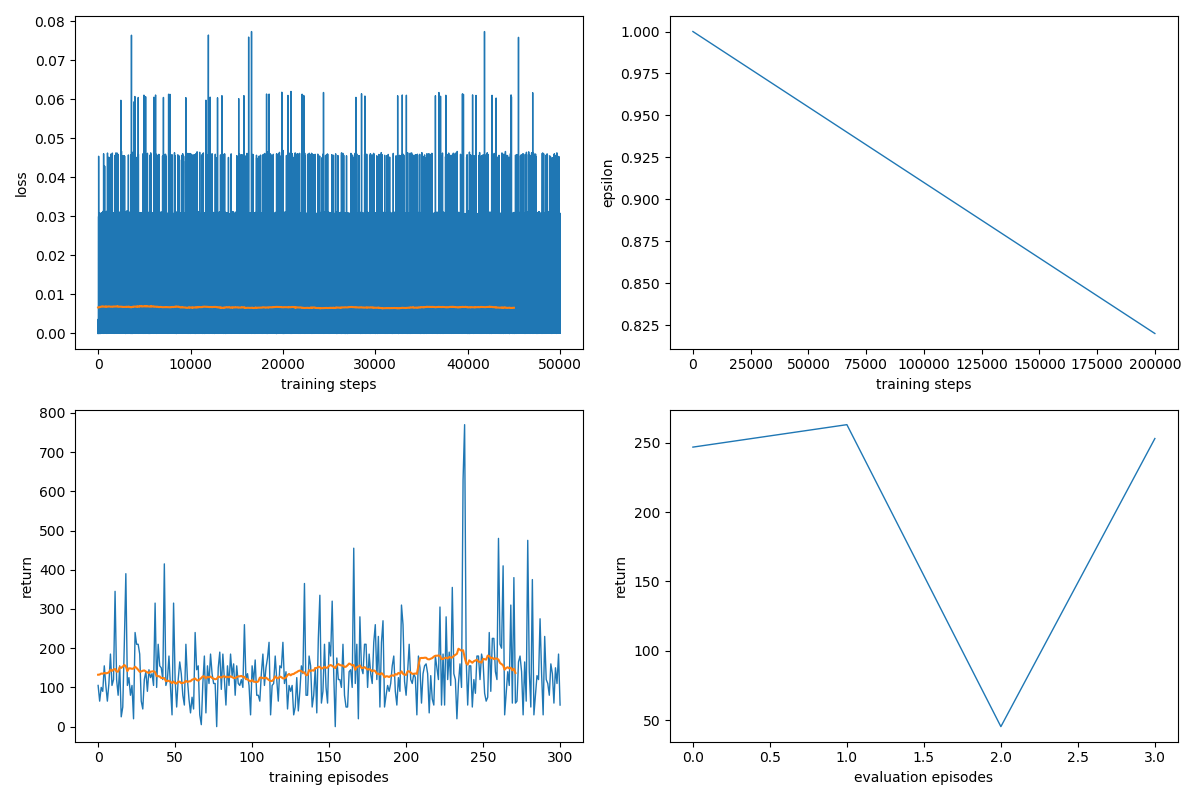
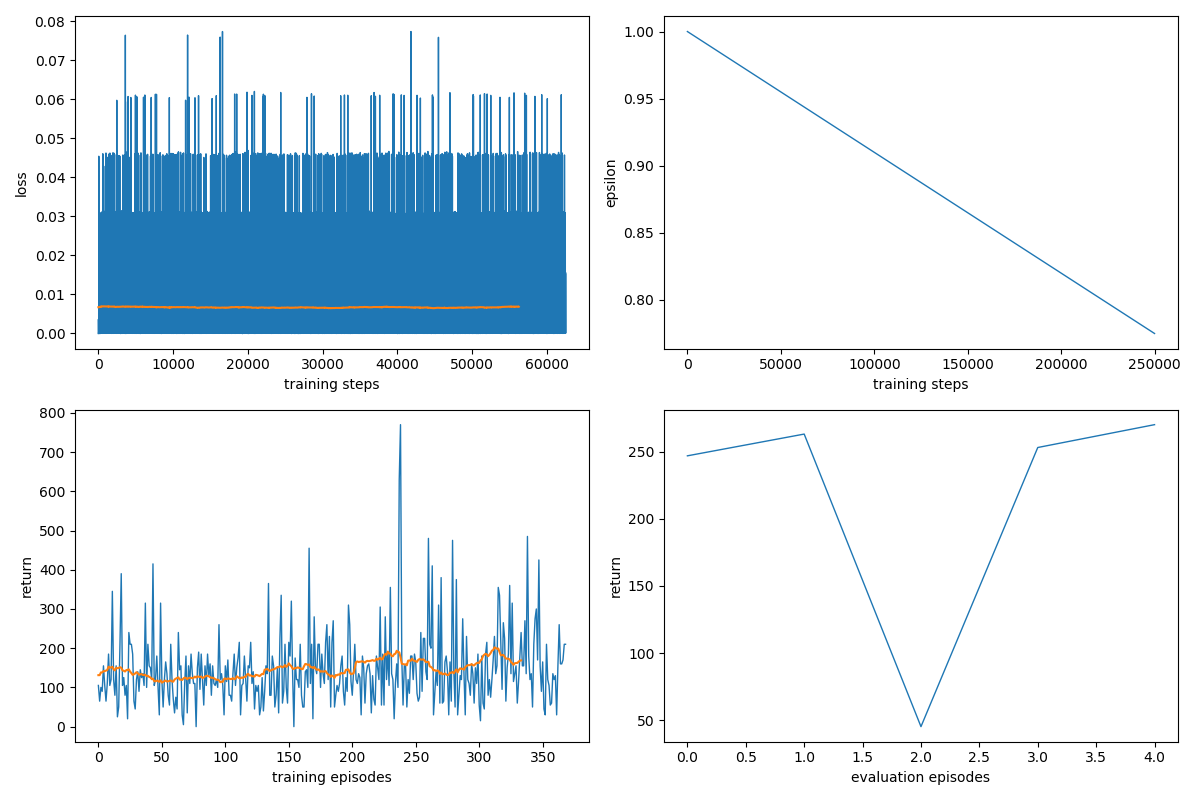
- new (intermediate) results - test reduced hidden_size (256 -> 128)

diff --git a/models/models.py b/models/models.py
@@ -21,7 +21,7 @@ class CNN(nn.Module):
         self.device = device
         self.conv_1 = nn.Conv2d(in_channels=1, out_channels=32, kernel_size=8, stride=4)
         self.conv_2 = nn.Conv2d(in_channels=32, out_channels=64, kernel_size=4, stride=2)
-        self.conv_3 = nn.Conv2d(in_channels=64, out_channels=256, kernel_size=3, stride=1)
+        self.conv_3 = nn.Conv2d(in_channels=64, out_channels=128, kernel_size=3, stride=1)
 
     def forward(self, state):
         """
@@ -45,8 +45,8 @@ class Attention(nn.Module):
 
         """
         super(Attention, self).__init__()
-        self.fc_1 = nn.Linear(in_features=256, out_features=256)
-        self.fc_2 = nn.Linear(in_features=256, out_features=256)
+        self.fc_1 = nn.Linear(in_features=128, out_features=128)
+        self.fc_2 = nn.Linear(in_features=128, out_features=128)
 
     def forward(self, input_vectors, last_hidden_state):
         """
@@ -77,7 +77,7 @@ class Encoder(nn.Module):
         :param num_layers: number of LSTM layers
         """
         super(Encoder, self).__init__()
-        self.lstm = nn.LSTM(input_size=256, hidden_size=256, num_layers=num_layers)
+        self.lstm = nn.LSTM(input_size=128, hidden_size=128, num_layers=num_layers)
 
     def forward(self, input_sequence, hidden_state, hidden_cell):
         """
@@ -101,7 +101,7 @@ class Decoder(nn.Module):
         :param num_layers: number of LSTM layers
         """
         super(Decoder, self).__init__()
-        self.lstm = nn.LSTM(input_size=256, hidden_size=256, num_layers=num_layers)
+        self.lstm = nn.LSTM(input_size=128, hidden_size=128, num_layers=num_layers)
 
     def forward(self, input_sequence, hidden_state, hidden_cell):
         """
@@ -125,7 +125,7 @@ class QNet(nn.Module):
         :param nr_actions: number of actions
         """
         super(QNet, self).__init__()
-        self.fc_1 = nn.Linear(in_features=256, out_features=nr_actions)
+        self.fc_1 = nn.Linear(in_features=128, out_features=nr_actions)
 
     def forward(self, decoder_out):
         """
@@ -186,8 +186,8 @@ class DARQNModel(nn.Module):
         :param batch_size: size of mini batch
         :return:
         """
-        self.dec_h_t = torch.zeros(self.num_layers, batch_size, 256, device=self.device)
-        self.dec_c_t = torch.zeros(self.num_layers, batch_size, 256, device=self.device)
+        self.dec_h_t = torch.zeros(self.num_layers, batch_size, 128, device=self.device)
+        self.dec_c_t = torch.zeros(self.num_layers, batch_size, 128, device=self.device)
 
     @staticmethod
     def build_vector(feature_maps):
@@ -256,10 +256,10 @@ class CEADModel(nn.Module):
         :param batch_size: size of mini batch
         :return:
         """
-        self.enc_h_t = torch.zeros(self.num_layers, batch_size, 256, device=self.device)
-        self.enc_c_t = torch.zeros(self.num_layers, batch_size, 256, device=self.device)
-        self.dec_h_t = torch.zeros(self.num_layers, batch_size, 256, device=self.device)
-        self.dec_c_t = torch.zeros(self.num_layers, batch_size, 256, device=self.device)
+        self.enc_h_t = torch.zeros(self.num_layers, batch_size, 128, device=self.device)
+        self.enc_c_t = torch.zeros(self.num_layers, batch_size, 128, device=self.device)
+        self.dec_h_t = torch.zeros(self.num_layers, batch_size, 128, device=self.device)
+        self.dec_c_t = torch.zeros(self.num_layers, batch_size, 128, device=self.device)
 
     @staticmethod
     def build_vector(feature_maps):

diff --git a/utils/plots.py b/utils/plots.py
@@ -4,27 +4,27 @@ import matplotlib.pyplot as plt
 import numpy as np
 
 
-def plot_intermediate_results(directory, name, **data):
+def plot_intermediate_results(directory, **data):
     fig, axarr = plt.subplots(2, 2, figsize=(12, 8))
     axarr[0, 0].plot(data['loss'], linewidth=1)
-    axarr[0, 0].plot(sliding_window(data['loss'], window_size=int(len(data['loss'])/10)), linewidth=1.5)
+    # axarr[0, 0].plot(sliding_window(data['loss'], window_size=int(len(data['loss'])/10)), linewidth=1.5)
     axarr[0, 0].set(xlabel='training steps', ylabel='loss')
 
     axarr[0, 1].plot(data['epsilons'], linewidth=1)
     axarr[0, 1].set(xlabel='training steps', ylabel='epsilon')
 
     axarr[1, 0].plot(data['training_returns'], linewidth=1)
-    axarr[1, 0].plot(sliding_window(data['training_returns'], window_size=int(len(data['training_returns'])/10)), linewidth=1.5)
+    # axarr[1, 0].plot(sliding_window(data['training_returns'], window_size=int(len(data['training_returns'])/10)), linewidth=1.5)
     axarr[1, 0].set(xlabel='training episodes', ylabel='return')
 
     axarr[1, 1].plot(data['evaluation_returns'], linewidth=1)
-    if int(len(data['evaluation_returns'])/10) > 10:
+    """if int(len(data['evaluation_returns'])/10) > 10:
         window = int(len(data['evaluation_returns'])/10)
-        axarr[1, 1].plot(sliding_window(data['evaluation_returns'], window_size=window), linewidth=1.5)
+        axarr[1, 1].plot(sliding_window(data['evaluation_returns'], window_size=window), linewidth=1.5)"""
     axarr[1, 1].set(xlabel='evaluation episodes', ylabel='return')
 
     plt.tight_layout()
-    plt.savefig(directory + name + '.png')
+    plt.savefig(directory + 'results.png')
     plt.close()
 
 

diff --git a/run/run.py b/run/run.py
@@ -38,8 +38,8 @@ print(f'path: {directory}')
 print(f'device: {device}')
 
 training_steps = 2000000  # 1000000  # 5000000
-evaluation_start = 50000  # 10000    # 50000
-evaluation_steps = 10000  # 5000     # 25000
+evaluation_start = 50  # 10000    # 50000
+evaluation_steps = 100  # 5000     # 25000
 
 
 def evaluate_model(model):
